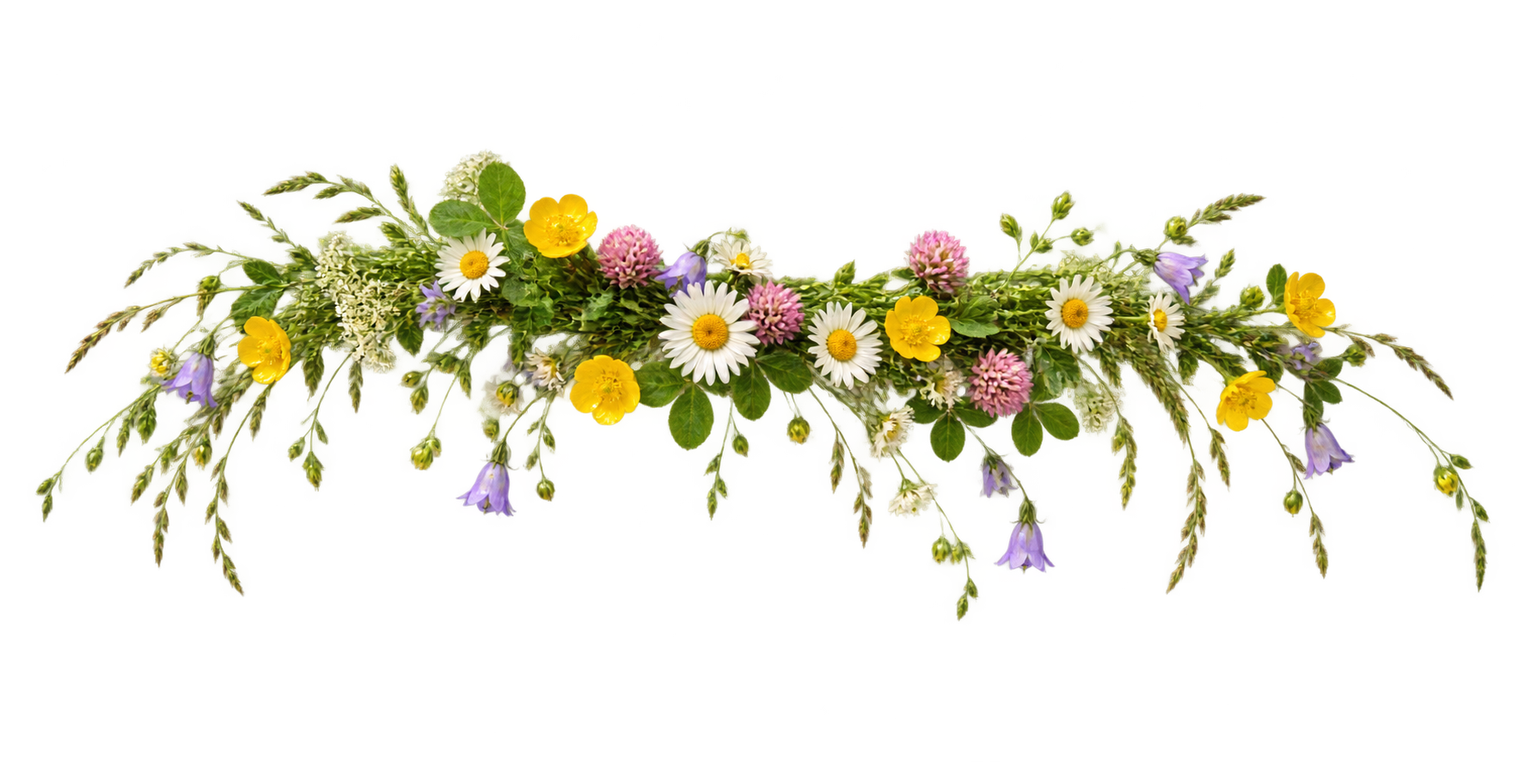
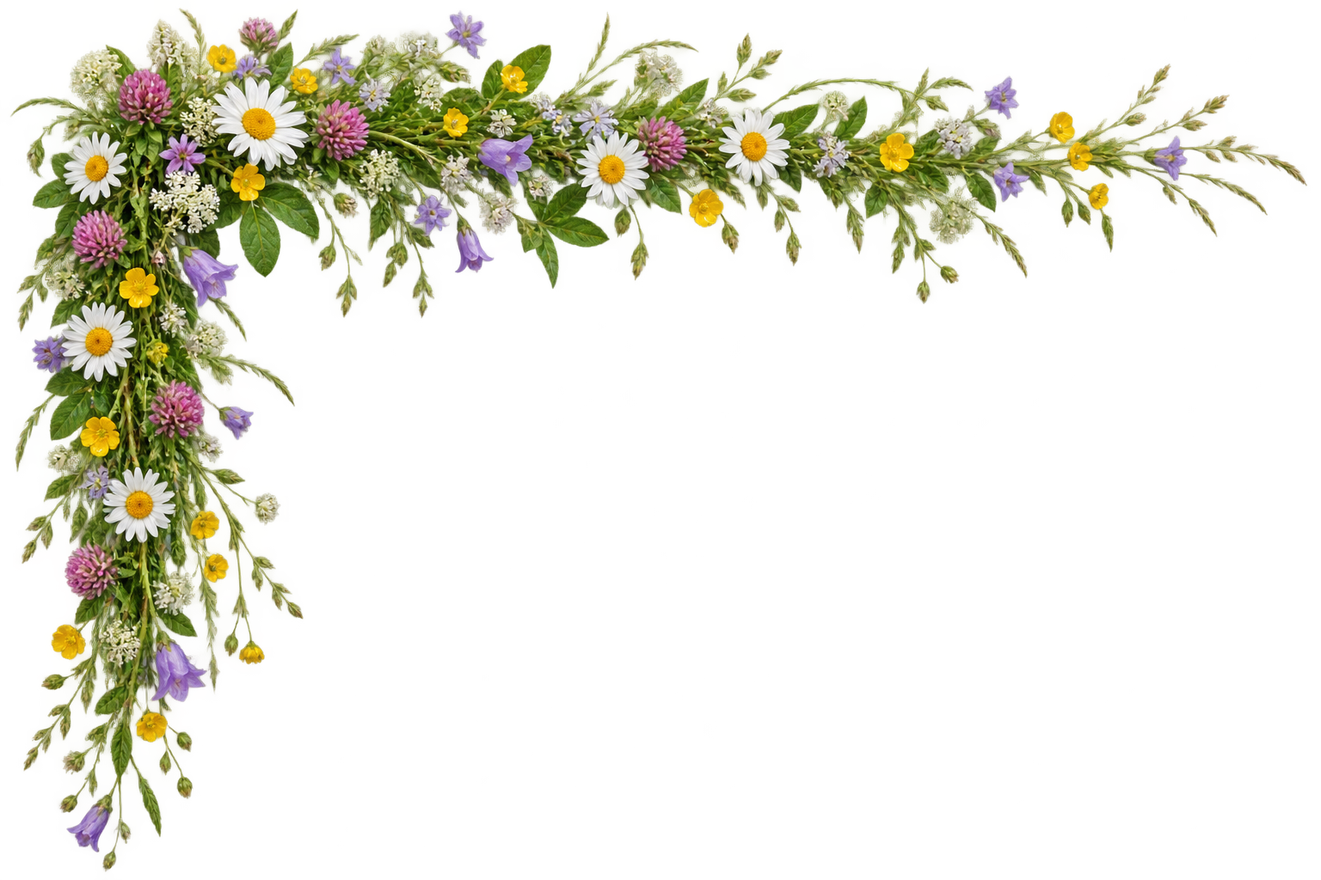
Replace small panel sprigs with broad seasonal corner garlands

diff --git a/src/local/quiethome/NatureBorder.java b/src/local/quiethome/NatureBorder.java
@@ -52,7 +52,11 @@ final class NatureBorder extends View {
         c.scale(getWidth()/960f,getHeight()/540f);
         // Keep text, focus highlights and buttons unobscured, including after widget reflow.
         for(Rect r:protectedRects)if(!r.isEmpty()){RectF clear=logical(r);clear.inset(-3,-3);c.clipRect(clear,Region.Op.DIFFERENCE);}
-        for(Rect r:panels)if(!r.isEmpty()){RectF clear=logical(r);clear.inset(4,4);c.clipRect(clear,Region.Op.DIFFERENCE);}
+        for(int i=0;i<panels.length;i++)if(!panels[i].isEmpty()){
+            RectF clear=logical(panels[i]);clear.inset(i==0?8:10,i==0?8:10);
+            Path interior=new Path();interior.addRoundRect(clear,i==0?14:8,i==0?14:8,Path.Direction.CW);
+            c.clipPath(interior,Region.Op.DIFFERENCE);
+        }
         float topScale=mode==8?(density==2?.65f:.5f):(density==2?.45f:.34f);
         float bottomScale=density==2?.55f:.42f;
         for(int row=0;row<2;row++)for(int col=0;col<2;col++){
@@ -62,22 +66,28 @@ final class NatureBorder extends View {
         }
         if(artwork.sprig!=null&&!artwork.sprigBounds.isEmpty())for(int i=0;i<panels.length;i++)if(!panels[i].isEmpty()){
             RectF p=logical(panels[i]);
-            float width=density==2?120:90;
-            float height=Math.min(density==2?34:28,width*artwork.sprigBounds.height()/artwork.sprigBounds.width());
-            width=height*artwork.sprigBounds.width()/artwork.sprigBounds.height();
-            // Hang above each rim; only the fine lower tips overlap its four-pixel border.
-            float centre=i==0?p.centerX():p.right-width*.65f-14;
-            sprig(c,artwork,centre-width/2,p.top-height+4,width,height);
-            if(i==0){
-                float h=10,w=h*artwork.sprigBounds.width()/artwork.sprigBounds.height();
-                sprig(c,artwork,p.left+p.width()*.25f-w/2,p.bottom-2,w,h);
-                sprig(c,artwork,p.left+p.width()*.75f-w/2,p.bottom-2,w,h);
+            // Continuous corner garlands: dock at both ends, news at its right edge,
+            // weather at both corners. Size follows each panel, never the scrolled tiles.
+            float width=i==0?(density==2?280:245):i==1?(density==2?220:190):p.width()*(density==2?.66f:.58f);
+            width=Math.min(width,p.width()*.72f);
+            float height=width*artwork.sprigBounds.height()/artwork.sprigBounds.width();
+            float rise=density==2?.18f:.14f;
+            float top=p.top-height*rise;
+            // Leave the controls below the dock clear without squashing the artwork.
+            if(i==0&&!protectedRects[2].isEmpty()){
+                float limit=logical(protectedRects[2]).top-5;
+                if(top+height>limit){height=(limit-p.top)/(1-rise);width=height*artwork.sprigBounds.width()/artwork.sprigBounds.height();top=p.top-height*rise;}
             }
+            if(i!=1)garland(c,artwork,p.left-width*.13f,top,width,height,false);
+            garland(c,artwork,p.right-width*.87f,top,width,height,true);
         }
         picture.endRecording();
     }
-    private void sprig(Canvas c,ThemeArtwork.Artwork artwork,float left,float top,float width,float height){
-        c.drawBitmap(artwork.sprig,artwork.sprigBounds,new RectF(left,top,left+width,top+height),paint);
+    private void garland(Canvas c,ThemeArtwork.Artwork artwork,float left,float top,float width,float height,boolean mirror){
+        c.save();c.translate(left,top);
+        if(mirror){c.translate(width,0);c.scale(-1,1);}
+        c.drawBitmap(artwork.sprig,artwork.sprigBounds,new RectF(0,0,width,height),paint);
+        c.restore();
     }
     private void cutout(Canvas c,Bitmap image,int row,int col,float left,float top,float factor){
         int w=image.getWidth(),h=image.getHeight();

diff --git a/src/local/quiethome/ThemeArtwork.java b/src/local/quiethome/ThemeArtwork.java
@@ -53,7 +53,7 @@ final class ThemeArtwork {
                 int requested;
                 synchronized(ThemeArtwork.class){requested=wanted;}
                 String name=FILES[requested-3];
-                Artwork result=new Artwork(decode(assets,name,2),decode(assets,name+"-sprig",4));
+                Artwork result=new Artwork(decode(assets,name,2),decode(assets,name+"-sprig",2));
                 ArrayList<WeakReference<NatureBorder>> targets;
                 synchronized(ThemeArtwork.class){
                     if(requested!=wanted)continue;

diff --git a/assets/themes/GARLAND-PROMPTS.md b/assets/themes/GARLAND-PROMPTS.md
@@ -1,0 +1,29 @@
+# Panel corner garlands (1.11 preview 2)
+
+Generated with the built-in ChatGPT image tool, using `transparent_background: true`. The six original RGBA PNGs replace the earlier `*-sprig.png` files. No wallpaper or private screenshot was supplied to the image tool. The user supplied a layout sketch; its panel-edge coverage informed these prompts. Screen-corner assets remain unchanged.
+
+The renderer anchors and mirrors these continuous upper-left corner cutouts at the actual panel bounds. It preserves their aspect ratio, clips panel interiors and controls, and leaves the dock stationary. Original image bytes are retained; alpha-bound calculations only affect drawing.
+
+## summertime-sprig.png
+
+Use case: photorealistic-natural. Production asset for a television UI, genuine alpha transparency. Generate ONE substantial continuous upper-LEFT corner garland shaped like an inverted L, composed of summer daisies, blue cornflowers and butter-yellow wildflowers, fine fresh green leaves, long natural trailing stems. Photographic cutout detail, warm midsummer daylight, organic asymmetry. Wide landscape canvas with aspect ratio 3:2. Shape and scale are critical: a long full horizontal branch extends from near the upper-left corner almost to the right edge along the TOP 20 percent of the canvas; a long connected vertical cascade descends from that SAME upper-left junction almost to the BOTTOM along the LEFT 20 percent of the canvas. The horizontal and vertical arms are both long, clearly connected, and taper delicately at their far ends. Rich, substantial vegetation at the elbow, individual flowers/leaves large enough to read from a sofa, open gaps between stems. This must be an architectural corner drape, NOT a little bouquet, central bunch, wreath, arch, full rectangle, or small isolated sprig. Keep every leaf within the canvas with 3 percent transparent outer margin. The entire lower-right interior, about 70 percent of the image, must be fully transparent and empty for UI text. Actual alpha everywhere except botanical objects; no solid background, checkerboard pattern, screen, panel, letters, logos, shadows on a backdrop, cartoon, illustration, or vector graphics. The object will wrap the outside upper corner of a panel on a 1920x1080 television, at roughly 480x320 pixels on the dock and 340x225 pixels on widgets. Only create the transparent garland asset, no mockup.
+
+## woodland-sprig.png
+
+Use case: photorealistic-natural. Production asset for a television UI, genuine alpha transparency. Generate ONE substantial continuous upper-LEFT corner garland shaped like an inverted L, composed of lush English ivy, fern fronds, mossy twigs and long cascading ivy vines, rich natural green leaves. Photographic cutout detail, soft woodland daylight, organic asymmetry. Wide landscape canvas with aspect ratio 3:2. Shape and scale are critical: a long full horizontal branch extends from near the upper-left corner almost to the right edge along the TOP 20 percent of the canvas; a long connected vertical cascade descends from that SAME upper-left junction almost to the BOTTOM along the LEFT 20 percent of the canvas. The horizontal and vertical arms are both long, clearly connected, and taper delicately at their far ends. Rich, substantial vegetation at the elbow, individual flowers/leaves large enough to read from a sofa, open gaps between stems. This must be an architectural corner drape, NOT a little bouquet, central bunch, wreath, arch, full rectangle, or small isolated sprig. Keep every leaf within the canvas with 3 percent transparent outer margin. The entire lower-right interior, about 70 percent of the image, must be fully transparent and empty for UI text. Actual alpha everywhere except botanical objects; no solid background, checkerboard pattern, screen, panel, letters, logos, shadows on a backdrop, cartoon, illustration, or vector graphics. The object will wrap the outside upper corner of a panel on a 1920x1080 television, at roughly 480x320 pixels on the dock and 340x225 pixels on widgets. Only create the transparent garland asset, no mockup.
+
+## meadow-sprig.png
+
+Use case: photorealistic-natural. Production asset for a television UI, genuine alpha transparency. Generate ONE substantial continuous upper-LEFT corner garland shaped like an inverted L, composed of meadow daisies, buttercups, pink clover, lilac wildflowers, fine grasses and long trailing green stems. Photographic cutout detail, gentle meadow daylight, organic asymmetry. Wide landscape canvas with aspect ratio 3:2. Shape and scale are critical: a long full horizontal branch extends from near the upper-left corner almost to the right edge along the TOP 20 percent of the canvas; a long connected vertical cascade descends from that SAME upper-left junction almost to the BOTTOM along the LEFT 20 percent of the canvas. The horizontal and vertical arms are both long, clearly connected, and taper delicately at their far ends. Rich, substantial vegetation at the elbow, individual flowers/leaves large enough to read from a sofa, open gaps between stems. This must be an architectural corner drape, NOT a little bouquet, central bunch, wreath, arch, full rectangle, or small isolated sprig. Keep every leaf within the canvas with 3 percent transparent outer margin. The entire lower-right interior, about 70 percent of the image, must be fully transparent and empty for UI text. Actual alpha everywhere except botanical objects; no solid background, checkerboard pattern, screen, panel, letters, logos, shadows on a backdrop, cartoon, illustration, or vector graphics. The object will wrap the outside upper corner of a panel on a 1920x1080 television, at roughly 480x320 pixels on the dock and 340x225 pixels on widgets. Only create the transparent garland asset, no mockup.
+
+## sakura-sprig.png
+
+Use case: photorealistic-natural. Production asset for a television UI, genuine alpha transparency. Generate ONE substantial continuous upper-LEFT corner garland shaped like an inverted L, composed of realistic pale pink and white cherry blossoms on graceful dark branching twigs, small fresh leaves and trailing blossom branches. Photographic cutout detail, soft spring daylight, organic asymmetry. Wide landscape canvas with aspect ratio 3:2. Shape and scale are critical: a long full horizontal branch extends from near the upper-left corner almost to the right edge along the TOP 20 percent of the canvas; a long connected vertical cascade descends from that SAME upper-left junction almost to the BOTTOM along the LEFT 20 percent of the canvas. The horizontal and vertical arms are both long, clearly connected, and taper delicately at their far ends. Rich, substantial vegetation at the elbow, individual flowers/leaves large enough to read from a sofa, open gaps between stems. This must be an architectural corner drape, NOT a little bouquet, central bunch, wreath, arch, full rectangle, or small isolated sprig. Keep every leaf within the canvas with 3 percent transparent outer margin. The entire lower-right interior, about 70 percent of the image, must be fully transparent and empty for UI text. Actual alpha everywhere except botanical objects; no solid background, checkerboard pattern, screen, panel, letters, logos, shadows on a backdrop, cartoon, illustration, or vector graphics. The object will wrap the outside upper corner of a panel on a 1920x1080 television, at roughly 480x320 pixels on the dock and 340x225 pixels on widgets. Only create the transparent garland asset, no mockup.
+
+## autumn-sprig.png
+
+Use case: photorealistic-natural. Production asset for a television UI, genuine alpha transparency. Generate ONE substantial continuous upper-LEFT corner garland shaped like an inverted L, composed of realistic copper, russet, amber and gold maple and oak leaves, slender twisting branches and hanging leaf-covered twigs, a few acorns. Photographic cutout detail, warm autumn daylight, organic asymmetry. Wide landscape canvas with aspect ratio 3:2. Shape and scale are critical: a long full horizontal branch extends from near the upper-left corner almost to the right edge along the TOP 20 percent of the canvas; a long connected vertical cascade descends from that SAME upper-left junction almost to the BOTTOM along the LEFT 20 percent of the canvas. The horizontal and vertical arms are both long, clearly connected, and taper delicately at their far ends. Rich, substantial vegetation at the elbow, individual flowers/leaves large enough to read from a sofa, open gaps between stems. This must be an architectural corner drape, NOT a little bouquet, central bunch, wreath, arch, full rectangle, or small isolated sprig. Keep every leaf within the canvas with 3 percent transparent outer margin. The entire lower-right interior, about 70 percent of the image, must be fully transparent and empty for UI text. Actual alpha everywhere except botanical objects; no solid background, checkerboard pattern, screen, panel, letters, logos, shadows on a backdrop, cartoon, illustration, or vector graphics. The object will wrap the outside upper corner of a panel on a 1920x1080 television, at roughly 480x320 pixels on the dock and 340x225 pixels on widgets. Only create the transparent garland asset, no mockup.
+
+## halloween-sprig.png
+
+Use case: photorealistic-natural. Production asset for a television UI, genuine alpha transparency. Generate ONE substantial continuous upper-LEFT corner garland shaped like an inverted L, composed of realistic miniature orange pumpkins nestled among dark curling vines, rusty autumn leaves and long trailing ivy, a few small natural-looking bat ornaments. Photographic cutout detail, moody but clearly visible soft amber lighting, organic asymmetry. Wide landscape canvas with aspect ratio 3:2. Shape and scale are critical: a long full horizontal branch extends from near the upper-left corner almost to the right edge along the TOP 20 percent of the canvas; a long connected vertical cascade descends from that SAME upper-left junction almost to the BOTTOM along the LEFT 20 percent of the canvas. The horizontal and vertical arms are both long, clearly connected, and taper delicately at their far ends. Rich, substantial vegetation at the elbow, individual flowers/leaves large enough to read from a sofa, open gaps between stems. This must be an architectural corner drape, NOT a little bouquet, central bunch, wreath, arch, full rectangle, or small isolated sprig. Keep every leaf within the canvas with 3 percent transparent outer margin. The entire lower-right interior, about 70 percent of the image, must be fully transparent and empty for UI text. Actual alpha everywhere except botanical objects; no solid background, checkerboard pattern, screen, panel, letters, logos, shadows on a backdrop, cartoon, illustration, or vector graphics. The object will wrap the outside upper corner of a panel on a 1920x1080 television, at roughly 480x320 pixels on the dock and 340x225 pixels on widgets. Only create the transparent garland asset, no mockup.

diff --git a/README.md b/README.md
@@ -17,7 +17,7 @@ It began as a custom home screen for a Sony BRAVIA and grew into a standalone la
 - **Silent video backgrounds.** Play a local H.264 MP4 on Home and in Art mode, only in Art mode, or only on the Home screen. Playback stops when you open another app; still pictures remain the fallback. See [video setup and recovery](docs/VIDEO-BACKGROUNDS.md).
 - **Remembered focus.** Return to the app you were selecting, including after visiting a widget.
 - **Clock and date.** Follow the TV's local time without a network request; choose system, 12-hour or 24-hour display.
-- **Nine themes.** Frosted Glass, Midnight and Gallery are joined by Woodland ivy, Meadow flowers, Sakura blossom, Autumn leaves and Halloween pumpkins/bats. All six botanical/seasonal themes use realistic, AI-generated alpha-channel artwork. Matching sprigs sit on the stationary dock and news/weather panel rims. Borders and sprigs disappear in Art mode; Off/Light/Lush controls both. Choose a preset in **Home options → Appearance → Theme**.
+- **Nine themes.** Frosted Glass, Midnight and Gallery are joined by Woodland ivy, Meadow flowers, Sakura blossom, Autumn leaves and Halloween pumpkins/bats. All six botanical/seasonal themes use realistic, AI-generated alpha-channel artwork. Broad corner garlands drape along the stationary dock and news/weather panel edges. Borders and garlands disappear in Art mode; Off/Light/Lush controls both. Choose a preset in **Home options → Appearance → Theme**.
 - **Your own colours and transparency.** Pick highlight/panel swatches or enter a custom `#RRGGBB` colour. Preview transparency with Left/Right in 5% steps and choose Off, Light or Lush borders. Save commits a preview; Cancel or Back discards it. Selection highlights remain solid with automatic black/white labels. Choosing a theme resets its appearance to that preset.
 - **Widget layouts.** Choose standard, compact or clock-only cards and swap the news/weather positions in **Home options → Widgets**. Clock-only pauses feeds while preserving their settings.
 - **Optional weather.** Choose a town; see modelled conditions, temperature and today's high/low in Celsius or Fahrenheit. Unit changes work offline.
@@ -29,7 +29,7 @@ The app is Java and Android framework code: no Gradle dependencies, WebView, ana
 
 ## Current status
 
-Current source: **1.11-preview.1**, extending realistic transparent artwork to all six botanical/seasonal themes and adding matching dock/widget decorations. Version 1.10 added Home-screen-only video and Summertime. Version 1.9 added optional local video backgrounds, a verified copy helper and still-picture fallback. Version 1.8 added five botanical/seasonal presets and reversible colour, transparency and border controls. Version 1.7 also adds themes, widget layouts, neighbour-picture caching and background app-list refresh. See [measured performance](docs/PERFORMANCE.md), [validation](docs/TESTING.md) and the earlier [eight improvement loops](docs/IMPROVEMENT-LOOPS.md) for evidence and limits.
+Current source: **1.11-preview.2**, replacing small panel sprigs with substantial, realistic corner garlands across all six botanical/seasonal themes. The approved screen corners remain unchanged. Version 1.10 added Home-screen-only video and Summertime. Version 1.9 added optional local video backgrounds, a verified copy helper and still-picture fallback. Version 1.8 added five botanical/seasonal presets and reversible colour, transparency and border controls. Version 1.7 also adds themes, widget layouts, neighbour-picture caching and background app-list refresh. See [measured performance](docs/PERFORMANCE.md), [validation](docs/TESTING.md) and the earlier [eight improvement loops](docs/IMPROVEMENT-LOOPS.md) for evidence and limits.
 
 Earlier versions were exercised on a Sony BRAVIA running Android 12, including artwork mode, remote navigation, widget feeds, cached results, settings restoration and APK rollback. Automated and ADB checks do not certify HDMI, playback, audio or a physical remote.
 

diff --git a/docs/TESTING.md b/docs/TESTING.md
@@ -135,3 +135,17 @@ This is visual and behavioural validation, not a new latency/energy benchmark or
 Home-only video was checked again with these decorations: Art mode hides the entire UI and stops the QuietHome player, Right changes the still image, and OK restores Home and muted hardware playback. The short resumed-playback diagnostic showed zero dropped frames over 256 frames; it is not a general performance benchmark.
 
 Original-key rollback to the 1.10 implementation and reapplication of 1.11 both passed in place. Fresh settings exports verified dock, widgets, gallery timing/framing, theme, appearance and video mode/filename. The recovery helper retries transient UI-read failures without guessing tap coordinates, verifies file hashes and device identity, retains backups and refuses later versions. No uninstall or data clear was used.
+
+## 1.11 preview 2 larger panel garlands
+
+User feedback and a placement sketch showed that the small sprigs did not fill enough of the dock/widget edges. Six new ChatGPT-generated alpha cutouts form continuous upper-corner drapes: both dock ends, the news card's right edge, and both weather corners. Their size follows actual panel bounds; the dock remains stationary. Rounded interior masks protect labels and focus highlights. All six screen-corner images and all private wallpaper files are unchanged.
+
+Validation on 21 October 2026:
+
+- Host tests and public/private builds passed. Android parser/settings tests and live provider checks passed on the existing Android TV API 31 emulator.
+- All six generated PNGs have real alpha transparency and retain their original bytes. The six replacements total 11,026,666 bytes, an increase of 4,012,029 bytes (about 3.8 MiB) over preview 1.
+- Screenshots on the 1920 x 1080 emulator were inspected for all six themes, Light/Lush/Off, compact/standard/swapped layouts, clock-only layout and Art mode. Text and focus remain clear; hidden cards leave no orphan artwork.
+- The worker samples frame and garland at half size. Android reported 3,144,544 allocated bitmap bytes (about 3 MiB) for each tested theme pair. This excludes temporary decoding and other application resources; no new latency or energy benchmark is claimed.
+- An initial build was installed in place on the authorised Sony TV and its Summertime screenshot inspected. TV control stopped when another app was opened. The final rounded-mask/Lush refinements and this version's physical-TV rollback/reapply remain pending a free TV; emulator success is not represented as TV validation.
+
+There are no settings-schema, permission, provider or system-package changes. Prior APK/settings and a version-specific original-key recovery package are preserved privately. Exact prompts are in [GARLAND-PROMPTS.md](../assets/themes/GARLAND-PROMPTS.md).

diff --git a/assets/themes/README.md b/assets/themes/README.md
@@ -1,8 +1,8 @@
 # Theme artwork
 
-Version 1.11 extends the generated artwork to Woodland, Meadow, Sakura, Autumn and Halloween, and adds a separate hanging sprig for each of the six nature themes. See [seasonal border prompts](SEASONAL-PROMPTS.md) and [panel sprig prompts](PANEL-PROMPTS.md). All assets were created with the built-in ChatGPT image tool with true alpha transparency; the original PNG bytes are retained.
+Version 1.11 extends the generated artwork to Woodland, Meadow, Sakura, Autumn and Halloween, and adds a separate hanging sprig for each of the six nature themes. Preview 2 replaces the small sprigs with broad corner garlands: see [current garland prompts](GARLAND-PROMPTS.md). The [seasonal border prompts](SEASONAL-PROMPTS.md) and [original panel sprig prompts](PANEL-PROMPTS.md) record the earlier assets. All assets were created with the built-in ChatGPT image tool with true alpha transparency; the original PNG bytes are retained.
 
-One worker decodes the requested theme only: a half-size frame and quarter-size sprig. The cache holds one theme, not the entire set. Panel decorations follow actual dock/widget bounds and are clipped away from text and controls. They do not scroll with dock apps or add focus targets. Off hides all decoration; Art mode hides it with the UI.
+One worker decodes the requested theme only: a half-size frame and half-size garland. The cache holds one theme, not the entire set. Substantial panel corner garlands follow actual dock/widget bounds and are clipped away from text and controls. They do not scroll with dock apps or add focus targets. Off hides all decoration; Art mode hides it with the UI.
 
 ## Original Summertime artwork
 

diff --git a/docs/PRIVACY.md b/docs/PRIVACY.md
@@ -66,3 +66,7 @@ Summertime bundles one generated PNG with real alpha transparency. Generation ha
 All six botanical/seasonal themes use bundled generated PNGs, plus matching transparent sprigs for the dock and widget rims. Generation occurs only during development. A single worker decodes the requested theme; the cache retains one pair of sampled bitmaps, approximately 1.9 MiB on the tested TV. Old drawing resources and in-flight decoding can temporarily add memory until released by Android. Alpha-bound analysis also runs on the worker. There are no additional providers, permissions, timers or saved-setting fields.
 
 Decorations use actual visible panel bounds, follow widget layout/visibility changes, and stay fixed while app tiles scroll. The overlay cannot receive focus or touch. Text and controls are clipped out of its drawing area. Off/Light/Lush and Art mode apply to both the screen borders and panel artwork.
+
+## Larger panel garlands (1.11 preview 2)
+
+Six replacement alpha images create continuous top-and-side drapes at the existing panel bounds. Screen-corner images are unchanged. Both frame and garland are sampled at half size by the existing worker, with only one theme pair retained. This increases the theme bitmap allocation to approximately 3 MiB, excluding decoding temporaries and other caches. Panel interiors and controls remain protected, and Art mode hides the whole overlay. No permission, network provider, timer or settings-schema change is introduced.

diff --git a/docs/INSTALL.md b/docs/INSTALL.md
@@ -79,3 +79,5 @@ See [local video setup](VIDEO-BACKGROUNDS.md) for the verified copy helper, inpu
 Version 1.10 adds theme ID 8 (Summertime) and video mode 3 (Home screen only). IDs 0–7 for themes and 0–2 for video modes keep their earlier meanings. Older app versions cannot restore the new values: use a pre-update snapshot with the matching rollback APK. The generated decorative asset is bundled in the APK; local video files are still backed up separately.
 
 Version 1.11 replaces the older vector botanical drawings with generated alpha artwork and adds dock/widget sprigs. Theme IDs and backup schema are unchanged. Off/Light/Lush controls all decoration. Preserve the prior APK and settings if you want to restore the earlier artwork implementation; switching themes or choosing Off requires no reinstall.
+
+Version 1.11 preview 2 keeps those IDs and settings intact and replaces the panel sprigs with broader corner garlands. The existing Off/Light/Lush control applies. Use a matching original-key prior implementation and its settings snapshot to restore the smaller artwork; do not uninstall or clear data.

diff --git a/assets/themes/PANEL-PROMPTS.md b/assets/themes/PANEL-PROMPTS.md
@@ -1,6 +1,6 @@
-# Hanging panel artwork
+# Original hanging panel artwork (1.11 preview 1)
 
-Generated independently with the built-in ChatGPT image tool and `transparent_background: true`. No wallpaper inputs. These original PNGs have no clipped outer edges. Runtime alpha bounds place the cutouts on panel rims without changing the files.
+These small sprigs were superseded by [corner garlands](GARLAND-PROMPTS.md) in preview 2; Git history preserves the earlier files. Generated independently with the built-in ChatGPT image tool and `transparent_background: true`. No wallpaper inputs. These original PNGs have no clipped outer edges. Runtime alpha bounds place the cutouts on panel rims without changing the files.
 
 ## woodland-sprig.png
 
